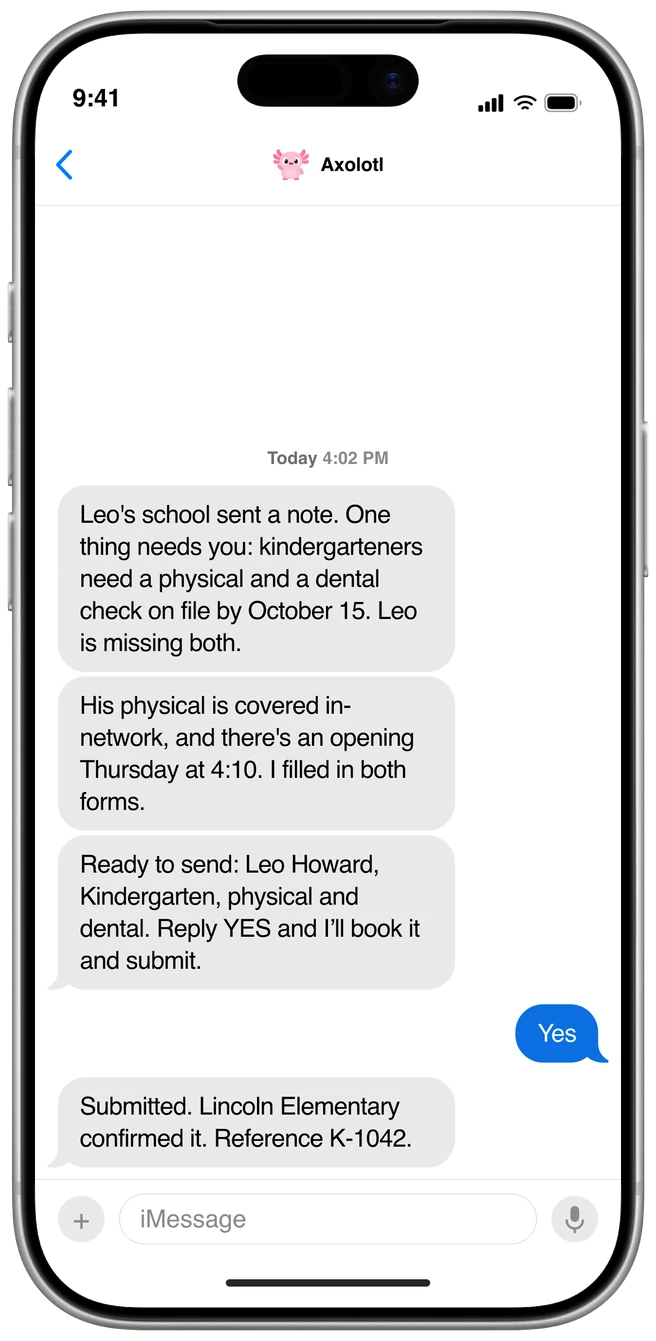
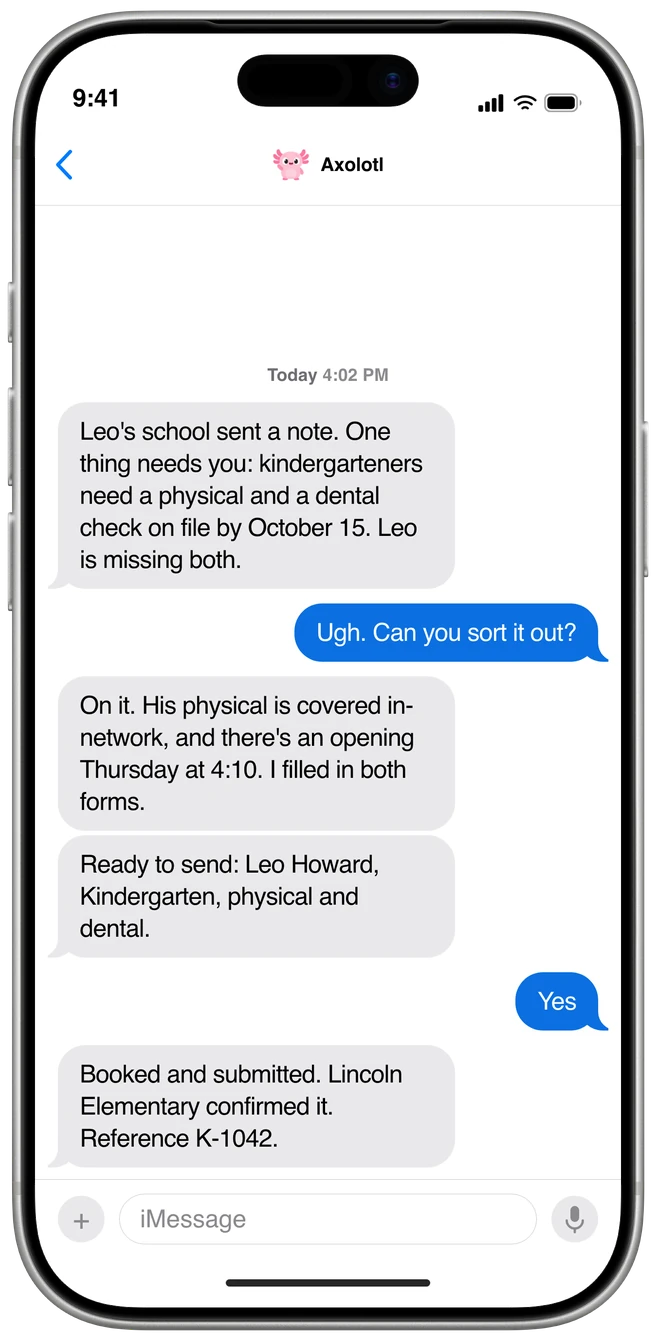
feat(site): make every phone a real conversation, circles a real group chat
The threads read as Axolotl narrating — the parent only ever said "yes". Now
each screen shows the loop the product is for: the parent says what they
want, and Axolotl goes and does it.

- hero: "I'm in meetings all day. Can you deal with them?" -> Axolotl fills
  in and sends the form, then confirms the school has it
- how your yes works: "Can you sort it out?" -> Axolotl finds the opening,
  fills both forms and waits for the parent's yes
- circles is now parents talking: the parent asks for help, Axolotl reports
  who in the circle is free, Dana offers, Sam covers her Friday, and Axolotl
  locks the plan in

Run grouping in a group chat now keys on (direction, sender), not direction
alone: a run is one person's consecutive messages, so different parents are
no longer merged into one tight block with a single tail.

Regenerate the four pages, all ten device renders and the lock file.

diff --git a/public/es.html b/public/es.html
@@ -75,10 +75,10 @@
           <div class="hero-phone-wrap">
             <img
               class="hero-phone"
-              src="/hero-phone-es.webp?v=861408a5e9d4c13f"
+              src="/hero-phone-es.webp?v=c1bab12ebd94290a"
               width="328"
               height="670"
-              alt="Conversación de texto en un teléfono. Axolotl reporta ocho correos de la semana: el formulario de excursión de Maya ya está lleno y espera tu sí; la salida temprana del miércoles está resuelta con la abuela recogiendo a Leo; el transporte de Leo a Lincoln está solicitado al distrito bajo McKinney-Vento. La familia responde sí, y Axolotl confirma que la escuela aceptó el formulario, referencia K-1042."
+              alt="Conversación de texto en un teléfono. Axolotl dice que llegaron ocho correos y que dos cosas necesitan a la familia. La familia, en juntas todo el día, le pide a Axolotl que se encargue. Axolotl llenó el formulario de excursión de Maya y lo envía con el visto bueno de la familia, luego confirma que Lincoln lo tiene, referencia K-1042, y que la abuela cubre la salida temprana del miércoles."
               fetchpriority="high"
               decoding="async"
             />
@@ -124,7 +124,7 @@
             <h3>Días libres y salidas tempranas</h3>
             <img
               class="week-shot"
-              src="/week-1-es.webp?v=861408a5e9d4c13f"
+              src="/week-1-es.webp?v=c1bab12ebd94290a"
               width="336"
               height="687"
               alt="Una conversación de texto con Axolotl: Días libres y salidas tempranas. Axolotl: Salió el calendario del distrito. Hay una cosa que necesita tu atención. Axolotl: El miércoles la salida es a la 1:20: los niños salen tres horas antes. Tú: Ese día tengo reuniones hasta las 3. Axolotl: La abuela está libre. ¿Quieres que le pregunte? Tú: Sí, por favor. Axolotl: Dijo que sí. Leo está cubierto el miércoles a la 1:20. Esperando tu sí"
@@ -136,7 +136,7 @@
             <h3>Cambios del mismo día</h3>
             <img
               class="week-shot"
-              src="/week-2-es.webp?v=861408a5e9d4c13f"
+              src="/week-2-es.webp?v=c1bab12ebd94290a"
               width="336"
               height="687"
               alt="Una conversación de texto con Axolotl: Cambios del mismo día. Axolotl: Lincoln acaba de escribir. Hoy salen al mediodía. Axolotl: Faltan doce minutos. Tú: No puedo salir. Tengo reuniones hasta las 3. Axolotl: La abuela es la primera en tu lista de respaldo. ¿Quieres que le pregunte? Tú: Sí, por favor. Axolotl: Ya los tiene. Le avisé a la oficina que están cubiertos. Esperando tu sí"
@@ -148,7 +148,7 @@
             <h3>Los pendientes pequeños</h3>
             <img
               class="week-shot"
-              src="/week-3-es.webp?v=861408a5e9d4c13f"
+              src="/week-3-es.webp?v=c1bab12ebd94290a"
               width="336"
               height="687"
               alt="Una conversación de texto con Axolotl: Los pendientes pequeños. Axolotl: Tres cosas esta semana. Axolotl: El jueves es el día de pijama, el formulario de la excursión vence el viernes, y Leo necesita una nota de ausencia. Tú: El lunes tiene dentista en la mañana. Axolotl: La nota de ausencia está lista y el formulario está lleno. Responde SÍ para enviar los dos. Tú: Sí Axolotl: Los dos enviados. La oficina confirmó. Esperando tu sí"
@@ -160,7 +160,7 @@
             <h3>Quién se encarga</h3>
             <img
               class="week-shot"
-              src="/week-4-es.webp?v=861408a5e9d4c13f"
+              src="/week-4-es.webp?v=c1bab12ebd94290a"
               width="336"
               height="687"
               alt="Una conversación de texto con Axolotl: Quién se encarga. Axolotl: Así va la semana. Axolotl: Recogida del miércoles: la abuela. El formulario de Maya: tú. Dentista el jueves: Sam. Tú: ¿Le puedes recordar a Sam lo del jueves? Axolotl: Sam ve la misma lista. Le recordaré a quien le toque. Tú: Gracias. Axolotl: Con gusto. Te escribo el viernes. Recordatorio puesto"
@@ -245,10 +245,10 @@
           <div class="phone-tilt">
             <img
               class="phone-shot"
-              src="/phone-es.webp?v=861408a5e9d4c13f"
+              src="/phone-es.webp?v=c1bab12ebd94290a"
               width="328"
               height="670"
-              alt="Conversación de texto en un teléfono: Axolotl dice que Leo necesita un examen físico y uno dental antes del 15 de octubre y que los dos formularios ya están llenos. La familia responde Sí, y Axolotl confirma que la Primaria Lincoln lo aceptó, referencia K-1042."
+              alt="Conversación de texto en un teléfono: Axolotl dice que Leo necesita un examen físico y uno dental antes del 15 de octubre. La familia le pide que se encargue. Axolotl encuentra una cita en la red, llena los dos formularios y muestra los datos listos para enviar. La familia responde Sí, y Axolotl confirma que la Primaria Lincoln lo aceptó, referencia K-1042."
               loading="lazy"
               decoding="async"
             />
@@ -315,10 +315,10 @@
           <figure class="circles-shot">
             <img
               class="phone-shot"
-              src="/circles-es.webp?v=861408a5e9d4c13f"
+              src="/circles-es.webp?v=c1bab12ebd94290a"
               width="328"
               height="670"
-              alt="Ejemplo de chat grupal en Mensajes. Tú, Dana y Sam organizan la salida temprana del miércoles: Dana lleva a los cuatro niños y Sam cubre su recogida del viernes. Todas las familias dijeron sí."
+              alt="Ejemplo de chat grupal en Mensajes. La familia dice que los dos están atorados el miércoles por la salida temprana y pide ayuda. Axolotl reporta que Dana está libre el miércoles y puede llevar a los cuatro niños; Dana acepta si alguien cubre su recogida del viernes, Sam toma el viernes, y Axolotl confirma el plan: Dana el miércoles, Sam el viernes."
               loading="lazy"
               decoding="async"
             />

diff --git a/public/index.html b/public/index.html
@@ -75,10 +75,10 @@
           <div class="hero-phone-wrap">
             <img
               class="hero-phone"
-              src="/hero-phone-en.webp?v=861408a5e9d4c13f"
+              src="/hero-phone-en.webp?v=c1bab12ebd94290a"
               width="328"
               height="670"
-              alt="Text thread on a phone. Axolotl reports eight school emails from the week: the field trip form for Maya is filled in and needs the parent’s yes; Wednesday’s early release is handled with Grandma picking up Leo; Leo’s ride to Lincoln is requested from the district under McKinney-Vento. The parent replies yes, and Axolotl confirms the school accepted the form, reference K-1042."
+              alt="Text thread on a phone. Axolotl says eight school emails came in and two things need the parent. The parent, in meetings all day, asks Axolotl to deal with them. Axolotl has filled in Maya’s field trip form and sends it on the parent’s go-ahead, then confirms Lincoln has it, reference K-1042, and that Grandma is covering Wednesday’s early release."
               fetchpriority="high"
               decoding="async"
             />
@@ -124,7 +124,7 @@
             <h3>Days off and early releases</h3>
             <img
               class="week-shot"
-              src="/week-1-en.webp?v=861408a5e9d4c13f"
+              src="/week-1-en.webp?v=c1bab12ebd94290a"
               width="336"
               height="687"
               alt="A text conversation with Axolotl: Days off and early releases. Axolotl: The district calendar came out. One thing in it needs you. Axolotl: Wednesday is early release at 1:20 — the kids are out three hours early. You: I have meetings until 3 that day. Axolotl: Grandma is free. Want me to ask her? You: Please. Axolotl: She said yes. Leo is covered at 1:20 on Wednesday. Waiting for your yes"
@@ -136,7 +136,7 @@
             <h3>Same-day changes</h3>
             <img
               class="week-shot"
-              src="/week-2-en.webp?v=861408a5e9d4c13f"
+              src="/week-2-en.webp?v=c1bab12ebd94290a"
               width="336"
               height="687"
               alt="A text conversation with Axolotl: Same-day changes. Axolotl: Lincoln just texted. Dismissal at noon today. Axolotl: That’s twelve minutes from now. You: I can’t leave, I’m in meetings until 3. Axolotl: Grandma is first on your backup list. Want me to ask her? You: Yes, please. Axolotl: She’s got them. I told the office they’re covered. Waiting for your yes"
@@ -148,7 +148,7 @@
             <h3>The small asks</h3>
             <img
               class="week-shot"
-              src="/week-3-en.webp?v=861408a5e9d4c13f"
+              src="/week-3-en.webp?v=c1bab12ebd94290a"
               width="336"
               height="687"
               alt="A text conversation with Axolotl: The small asks. Axolotl: Three things this week. Axolotl: Pajama day Thursday, the field trip form due Friday, and Leo needs an absence note. You: He has a dentist appointment Monday morning. Axolotl: The absence note is drafted and the form is filled in. Reply YES to send both. You: Yes Axolotl: Both sent. The office confirmed. Waiting for your yes"
@@ -160,7 +160,7 @@
             <h3>Who&#39;s got it</h3>
             <img
               class="week-shot"
-              src="/week-4-en.webp?v=861408a5e9d4c13f"
+              src="/week-4-en.webp?v=c1bab12ebd94290a"
               width="336"
               height="687"
               alt="A text conversation with Axolotl: Who&#39;s got it. Axolotl: Here’s who’s on what this week. Axolotl: Wednesday pickup: Grandma. Maya’s form: you. Dentist Thursday: Sam. You: Can you remind Sam about Thursday? Axolotl: Sam sees the same list. I’ll remind whoever’s on it. You: Thank you. Axolotl: Happy to. I’ll check in Friday. Reminder set"
@@ -245,10 +245,10 @@
           <div class="phone-tilt">
             <img
               class="phone-shot"
-              src="/phone-en.webp?v=861408a5e9d4c13f"
+              src="/phone-en.webp?v=c1bab12ebd94290a"
               width="328"
               height="670"
-              alt="Text conversation on a phone: Axolotl says Leo needs a physical and a dental check on file by October 15 and that both forms are filled in. The parent replies Yes, and Axolotl confirms Lincoln Elementary accepted it, reference K-1042."
+              alt="Text conversation on a phone: Axolotl says Leo needs a physical and a dental check on file by October 15. The parent asks Axolotl to sort it out. Axolotl finds an in-network appointment, fills in both forms, and shows the ready-to-send details. The parent replies Yes, and Axolotl confirms Lincoln Elementary accepted it, reference K-1042."
               loading="lazy"
               decoding="async"
             />
@@ -315,10 +315,10 @@
           <figure class="circles-shot">
             <img
               class="phone-shot"
-              src="/circles-en.webp?v=861408a5e9d4c13f"
+              src="/circles-en.webp?v=c1bab12ebd94290a"
               width="328"
               height="670"
-              alt="Example group chat in the Messages app. You, Dana and Sam work out Wednesday&#39;s early release: Dana takes all four kids, and Sam covers her Friday pickup. Every family said yes."
+              alt="Example group chat in the Messages app. The parent says they are both stuck on Wednesday&#39;s early release and asks for help. Axolotl reports that Dana is free Wednesday and can take all four kids; Dana agrees if someone covers her Friday pickup, Sam takes Friday, and Axolotl confirms the plan — Dana Wednesday, Sam Friday."
               loading="lazy"
               decoding="async"
             />

diff --git a/tools/site/phone-screen.html b/tools/site/phone-screen.html
@@ -434,6 +434,7 @@
         const text = turn.text ?? turn.in ?? turn.out ?? '';
         const li = document.createElement('li');
         li.className = `row ${out ? 'out' : 'in'}`;
+        li.dataset.from = from ?? '';
         const bubble = document.createElement('div');
         bubble.className = 'bubble';
         if (!out && from) {
@@ -487,15 +488,18 @@
         renderThread(phone.thread);
       }
 
-      // iOS groups a run of messages from one sender: the gap inside a run is
-      // tight, and only the last bubble of one carries the tail. The direction
-      // is captured up front — mutating className inside the loop made each row
-      // look different from the next one and put a tail on every bubble.
+      // iOS groups a run of messages from ONE sender: the gap inside a run is
+      // tight, and only the last bubble of one carries the tail. In a group chat
+      // the sender matters, so a run is (direction, sender) — not every incoming
+      // bubble. The key is captured up front: mutating className inside the loop
+      // made each row look different from the next and put a tail on everything.
       const rows = [...thread.querySelectorAll('.row')];
-      const dir = rows.map((row) => (row.classList.contains('out') ? 'out' : 'in'));
+      const key = rows.map(
+        (row) => `${row.classList.contains('out') ? 'out' : 'in'}|${row.dataset.from ?? ''}`,
+      );
       rows.forEach((row, i) => {
         const bubble = row.querySelector('.bubble');
-        if (i + 1 < rows.length && dir[i + 1] === dir[i]) {
+        if (i + 1 < rows.length && key[i + 1] === key[i]) {
           rows[i + 1].classList.add('run');
         } else if (bubble) {
           bubble.classList.add('tail');
